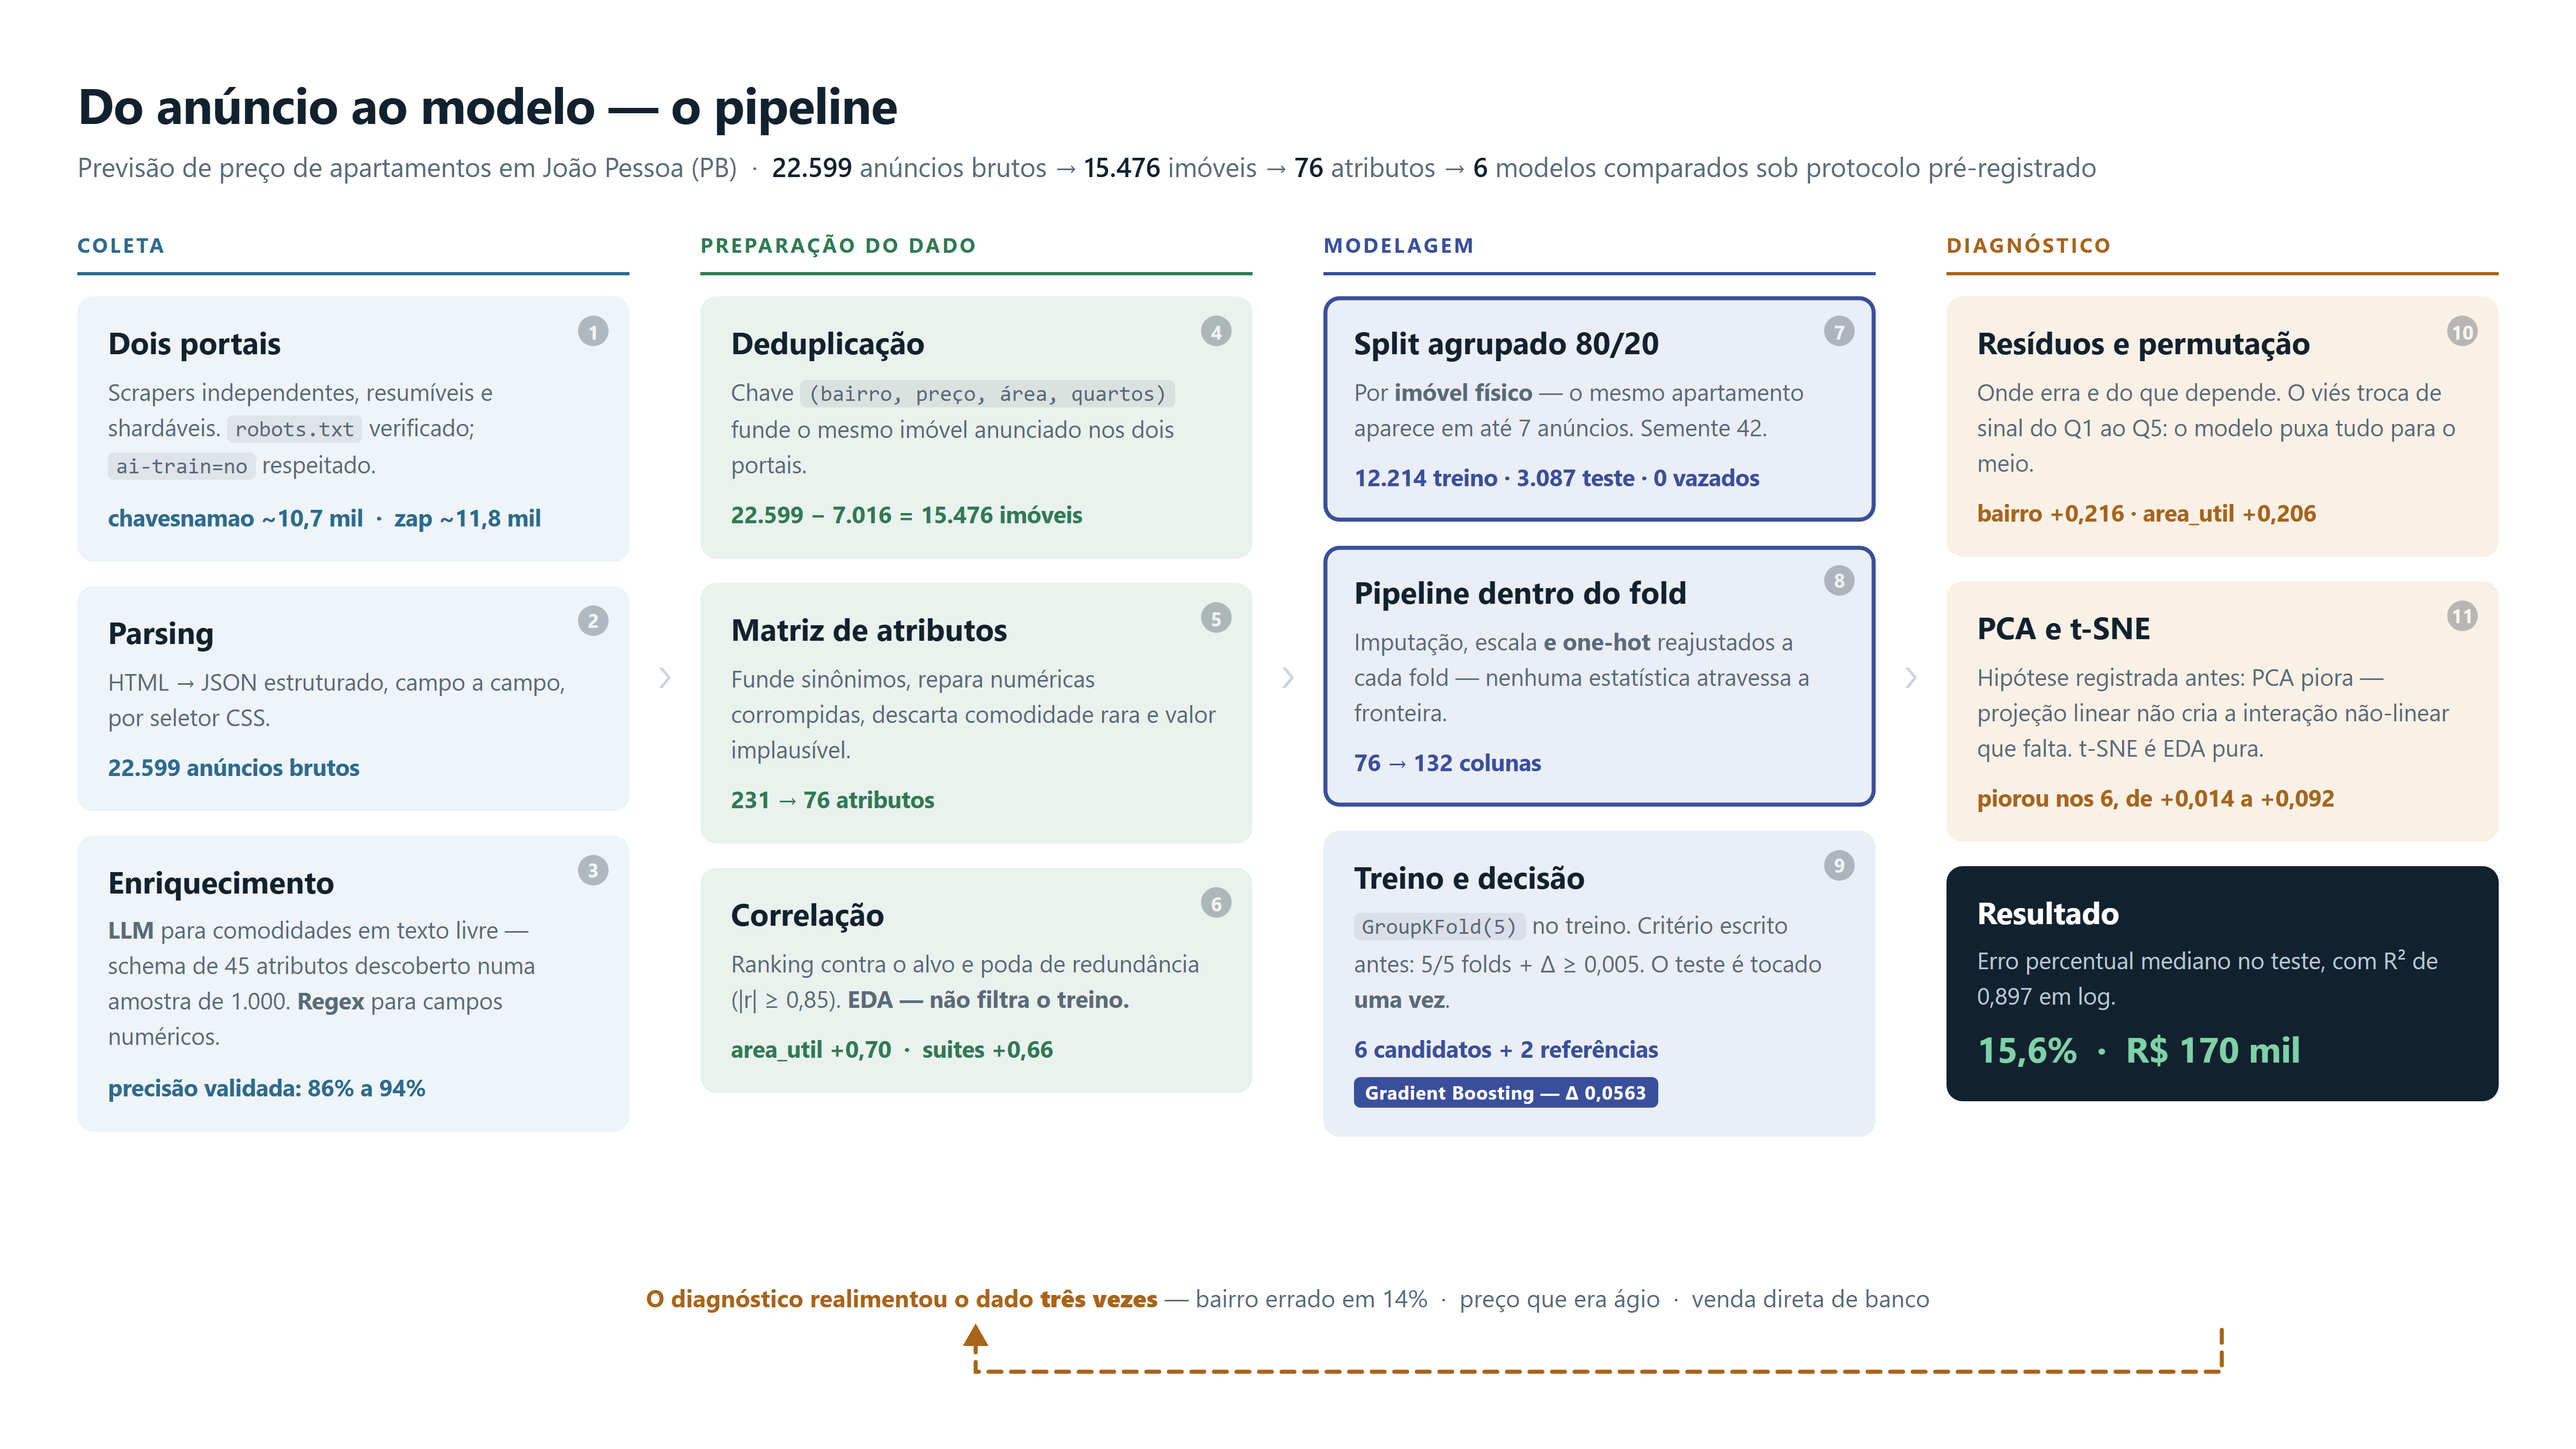
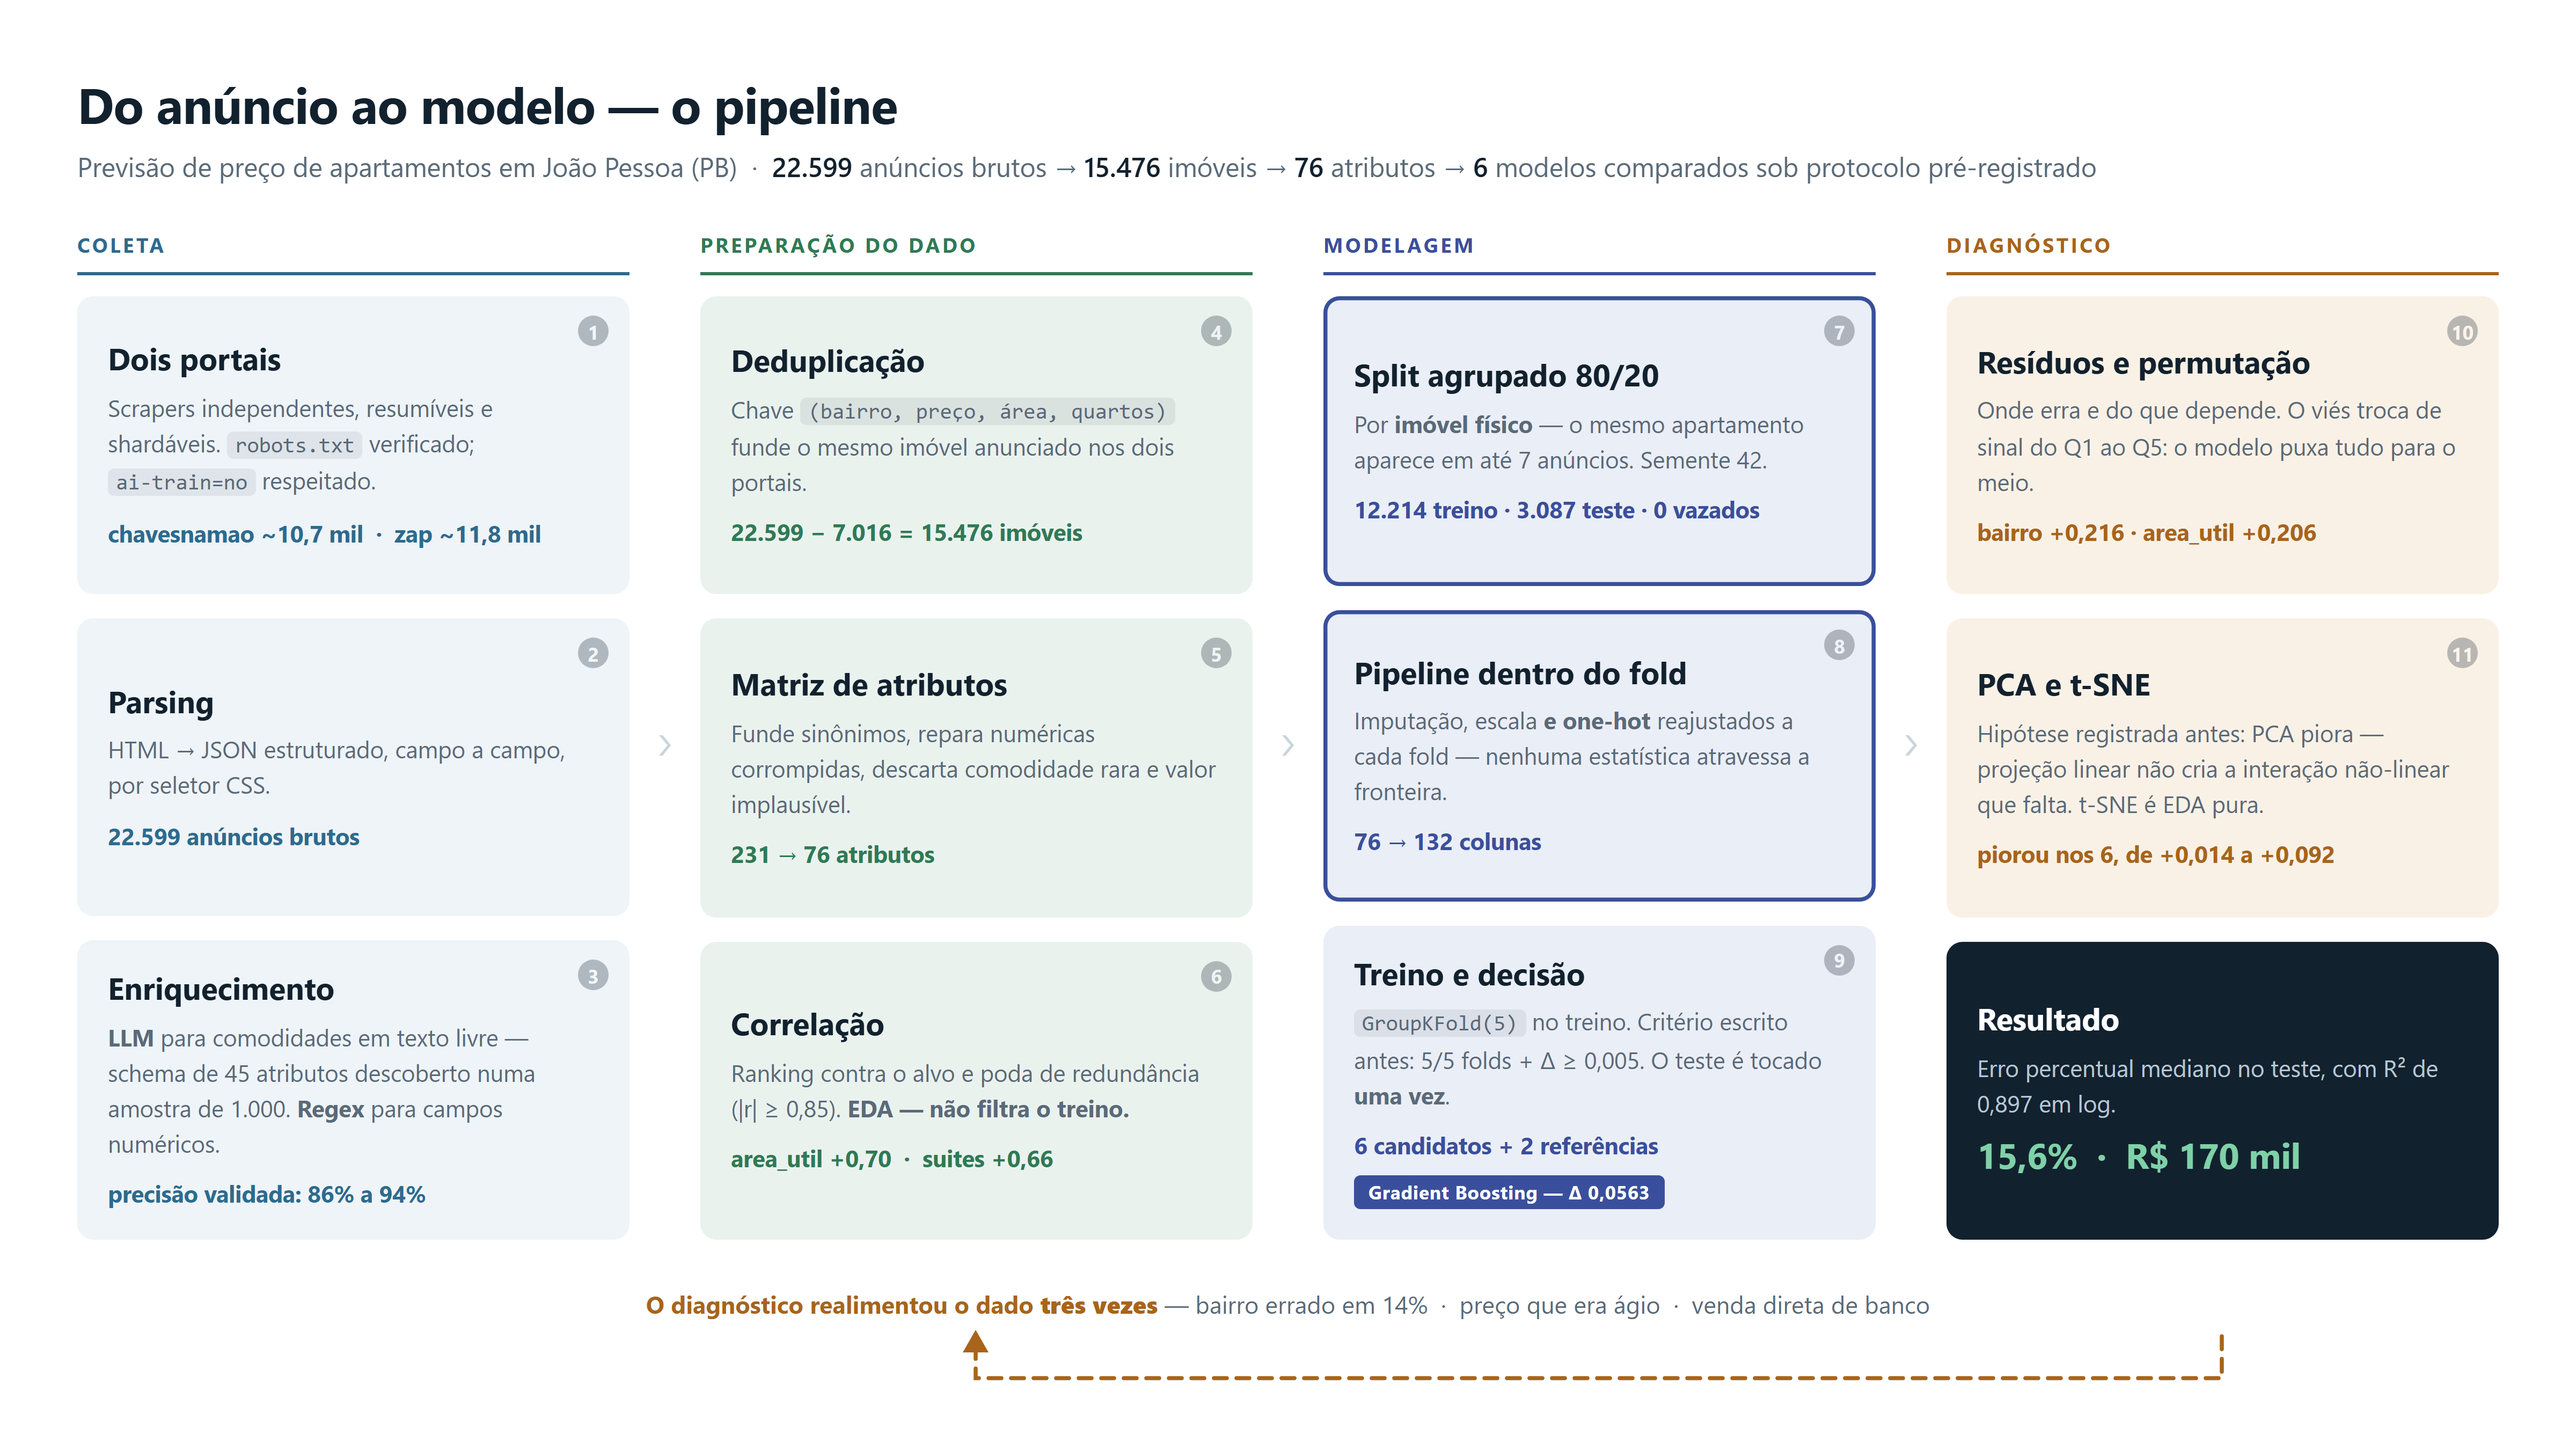
docs(figuras): diagrama do pipeline preenchendo a moldura 16:9
As quatro colunas passam a ter a mesma altura e as caixas dividem o espaco
vertical, em vez de terminarem onde o texto acabava. A imagem sempre foi 16:9
(4800x2700), mas sobrava uma faixa branca embaixo que a fazia parecer banner
em vez de slide.

diff --git a/docs/figuras/pipeline.html b/docs/figuras/pipeline.html
@@ -27,10 +27,11 @@
   .sub{ font-size:16.5px; color:var(--tinta2); margin-top:7px; }
   .sub b{ color:var(--tinta); font-weight:600; }
 
-  .trilhos{ display:flex; gap:0; margin-top:30px; align-items:stretch; }
+  .trilhos{ display:flex; gap:0; margin-top:30px; align-items:stretch; height:626px; }
   .col{ flex:1; display:flex; flex-direction:column; }
+  .col .caixa:last-child{ margin-bottom:0; }
   .chev{ width:44px; display:flex; align-items:center; justify-content:center;
-         color:var(--linha); font-size:38px; font-weight:300; padding-bottom:34px; }
+         color:var(--linha); font-size:38px; font-weight:300; }
 
   .faixa{ font-size:12.5px; font-weight:700; letter-spacing:1.6px; text-transform:uppercase;
           padding-bottom:9px; margin-bottom:13px; border-bottom:2.5px solid; }
@@ -39,7 +40,8 @@
   .c3 .faixa{ color:var(--a-modelo); border-color:var(--a-modelo); }
   .c4 .faixa{ color:var(--a-diag);   border-color:var(--a-diag); }
 
-  .caixa{ border-radius:10px; padding:17px 19px 18px; margin-bottom:15px; position:relative; }
+  .caixa{ border-radius:10px; padding:18px 19px 19px; margin-bottom:15px; position:relative;
+          flex:1 1 0; display:flex; flex-direction:column; justify-content:center; }
   .c1 .caixa{ background:var(--f-coleta); }
   .c2 .caixa{ background:var(--f-dado); }
   .c3 .caixa{ background:var(--f-modelo); }
@@ -58,9 +60,10 @@
 
   .destaque{ box-shadow:inset 0 0 0 2.5px var(--a-modelo); }
   .selo{ display:inline-block; font-size:11.5px; font-weight:700; letter-spacing:.4px;
-         color:#fff; background:var(--a-modelo); border-radius:4px; padding:2px 7px; margin-top:8px; }
+         color:#fff; background:var(--a-modelo); border-radius:4px; padding:3px 9px; margin-top:9px;
+         align-self:flex-start; }
 
-  .loop{ position:absolute; left:48px; right:48px; bottom:30px; height:74px; }
+  .loop{ position:absolute; left:48px; right:48px; bottom:26px; height:74px; }
   .loop svg{ width:100%; height:100%; overflow:visible; }
   .loop .rot{ position:absolute; left:50%; transform:translateX(-50%); top:0;
               font-size:15px; color:var(--a-diag); font-weight:650; white-space:nowrap; }
